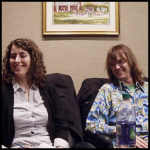
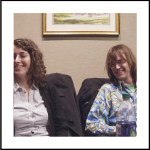
fixes

diff --git a/_includes/head.html b/_includes/head.html
@@ -57,7 +57,8 @@
       display: inline;
       max-width: 100%;
       margin: 0 0 0 rem;
-      border-radius: 12px;
+      border-radius: 2px;
+      border-width: 6px;
       border-color: #000000
       line-height: 1;
       padding-right: 7px;
@@ -68,12 +69,19 @@
 
     }
 
+.img-single{
+  display: inline;
+  border-radius: 18px;
+  padding-left: 6pt;
+}
+
 
     p.small {
     line-height: 0.1;
 }
 
   </style>
+
 
 
   <!-- Icons -->

diff --git a/public/css/hyde.css b/public/css/hyde.css
@@ -55,7 +55,8 @@ h1, h2, h3, h4, h5, h6 {
 
 a:hover{
   text-decoration: none;
-  text-shadow: 1.2px 1px #737373;
+
+  text-shadow:1px 0.75px #868686;
 }
 
 
@@ -295,7 +296,7 @@ img {
   display: block;
   max-width: 100%;
   margin: 1 1 1rem;
-  border-radius: 5px;
+  border-radius: 0px;
 }
 
 

diff --git a/_posts/2016-01-10-Spring-schedule.md b/_posts/2016-01-10-Spring-schedule.md
@@ -4,7 +4,7 @@ title: Latin, 2016 Spring
 tag: Latin
 ---
 
-<img align="right" src="/public/img/hg.gif" width="200"> In the spring semester, 2016, we are meeting at Rose Hill, in the little conference room of the Philosophy Department, on Tuesdays from 11 a.m. We started out the semester with finishing [Peter Auriol](http://plato.stanford.edu/entries/auriol/)'s question concerning *ens apparens* from his *Sentences* commentary; now we are reading [Henry of Ghent](http://plato.stanford.edu/entries/henry-ghent/)'s treatment of cognition.
+<img class="img-single" align="right" src="/public/img/hg.gif" width="200"> In the spring semester, 2016, we are meeting at Rose Hill, in the little conference room of the Philosophy Department, on Tuesdays from 11 a.m. We started out the semester with finishing [Peter Auriol](http://plato.stanford.edu/entries/auriol/)'s question concerning *ens apparens* from his *Sentences* commentary; now we are reading [Henry of Ghent](http://plato.stanford.edu/entries/henry-ghent/)'s treatment of cognition.
 
 - <a href="http://www.peterauriol.net" target="_blank">The Peter Auriol Homepage</a>, with a lot of cool resources, related to the edition of Peter Auriol's *Scriptum*.
 - <a href="https://philosophy.unca.edu/henry-ghent-series" target="_blank">The Henry of Ghent Series</a>, with editions, bibliography, etc.

diff --git a/_posts/2014-09-02-Scrabble.md b/_posts/2014-09-02-Scrabble.md
@@ -4,4 +4,4 @@ title: Latin Scrabble Club
 tag: Latin
 ---
 
-<img align="right" src="/public/img/scrabble.jpg" width="250"> We have started the department's first ever Latin Scrabble Club! We play once a month or so (schedule is flexible, depending on the participants), and yes, we do have a Latin Scrabble board and letters (with way to few *Q*'s). Medieval spelling is allowed.
+<img class="img-single" align="right" src="/public/img/scrabble.jpg" width="250"> We have started the department's first ever Latin Scrabble Club! We play once a month or so (schedule is flexible, depending on the participants), and yes, we do have a Latin Scrabble board and letters (with way to few *Q*'s). Medieval spelling is allowed.
